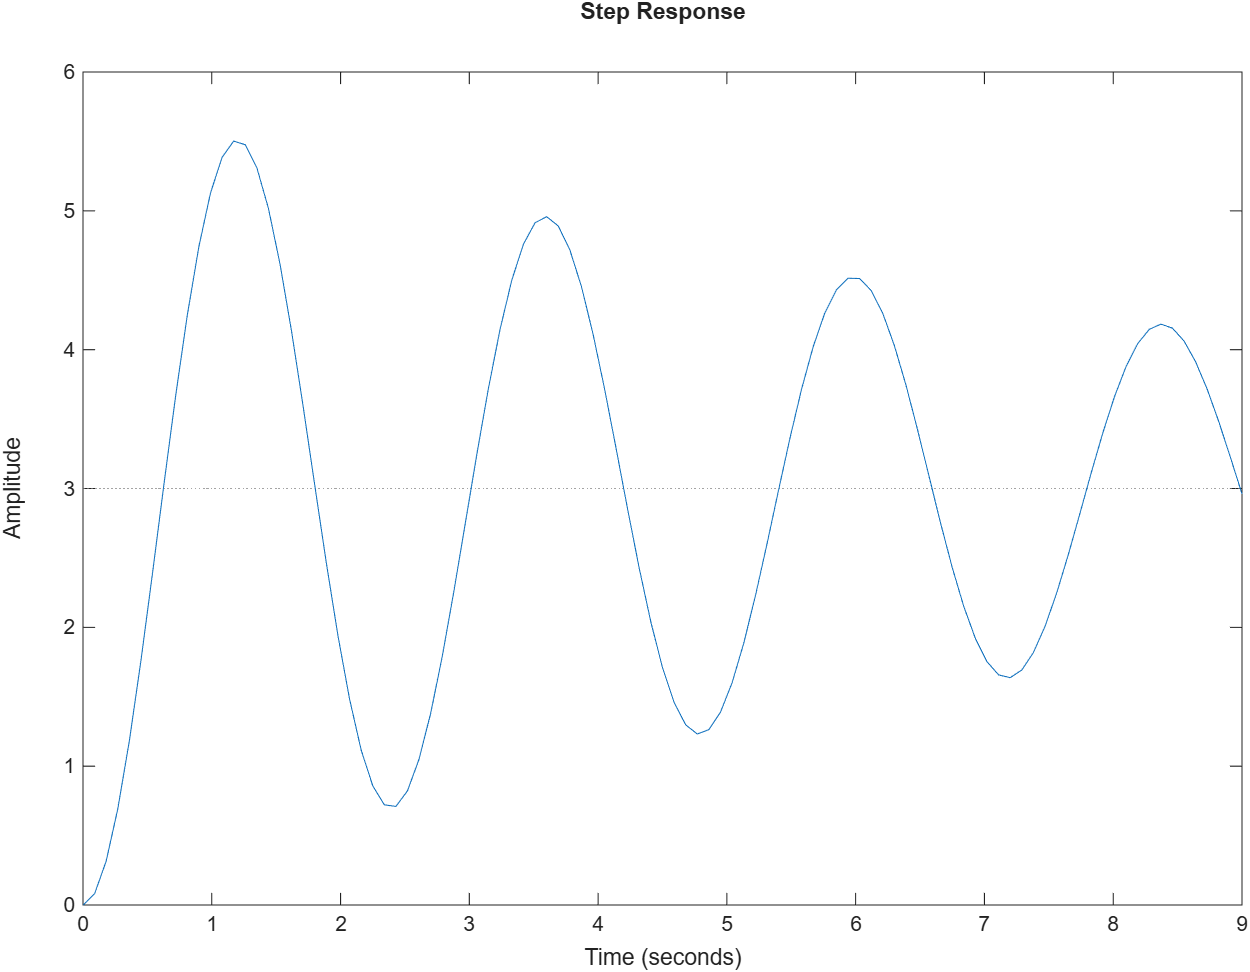
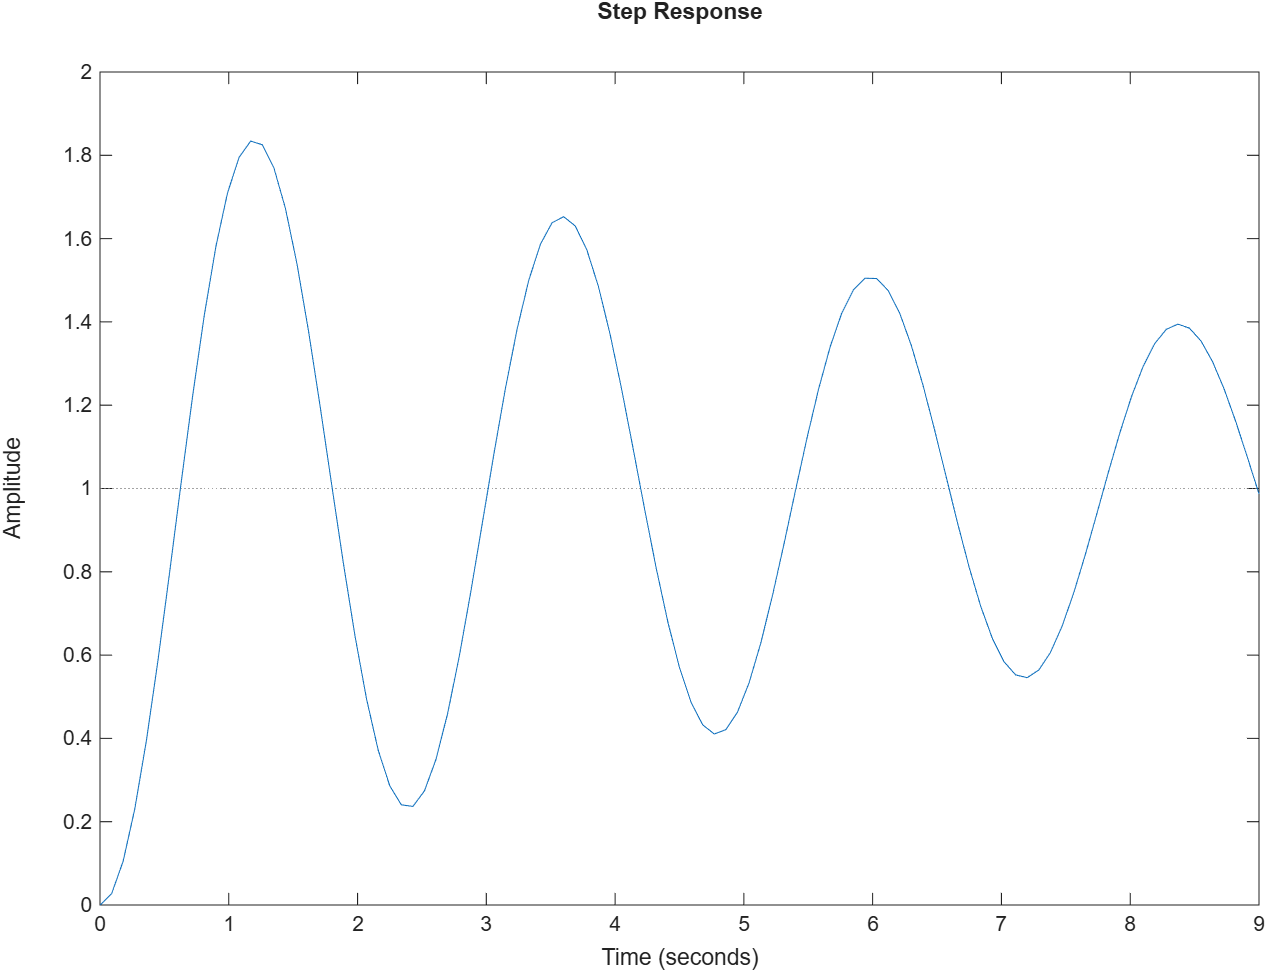
edited PI controller step final value to 1 insted of 3

diff --git a/Codes/PI_controller.m b/Codes/PI_controller.m
@@ -7,5 +7,5 @@ ki = 1.97608543136126;
 kd = 0;
 c = pid(kp, ki, kd);
 T = feedback(c*transfer_fnc, 1);
-step(3*T, 9)
+step(T, 9)
 info = stepinfo(T)
